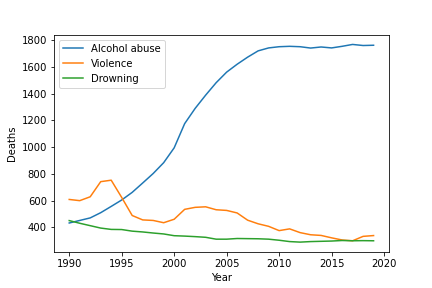
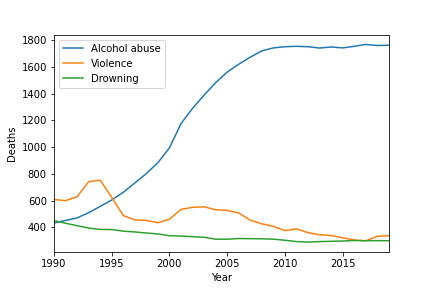
Some fixes and minor changes to functions. Reduced number of function parameters

diff --git a/code.py b/code.py
@@ -14,7 +14,7 @@ world = pd.read_csv("E:/Herts/ADS1/Assignment 1/ADS1_Assignment_Visualisation/ca
 
 #Creating seperate dataframes for each country from input data
 uk = world.iloc[5790:5820]
-uk["Total"] = uk.sum(axis=1)-uk["Year"]
+uk["Total"] = uk.sum(axis=1) - uk["Year"]
 germany = world.iloc[2010:2040]
 germany["Total"] = germany.sum(axis=1) - germany["Year"]
 france = world.iloc[1890:1920]
@@ -50,23 +50,43 @@ def line_plot_different_diseases_uk(y_axis, reason_1, reason_2, reason_3):
     plt.plot(uk[y_axis],uk[reason_2])
     plt.plot(uk[y_axis],uk[reason_3])
     plt.xlabel("Year")
+    plt.xlim(1990,2019)
     plt.ylabel("Deaths")
     plt.legend(["Alcohol abuse", "Violence", "Drowning"])
     plt.savefig("line2.png")
     plt.show()
 
-def box_plot(y_axis, x_axis):
+def box_plot(data):
     """
-        This function creates box plots for cardiovascular disease deaths with 
-        x and y axis given through arguments. Graphs are also saved as images 
-        to local directory
+        This function creates box plots for cardiovascular disease deaths for certain countries.
+        List of dataframes are given as argument.Graphs are also saved as images to local directory
     """
-    data = [uk[x_axis], germany[x_axis],france[x_axis],italy[x_axis]]
     plt.figure()
     plt.boxplot([data[0] , data[1] , data[2], data[3]], labels=["UK", "DE", "FR", "IT"])
     plt.ylabel("Deaths")
     plt.savefig("box.png")
     plt.show()
+
+def bar_chart(cause):
+    """
+        his function creates bar charts for a certain cuntries where cause of death 
+        is given as argument. Graph is also saved as images to local directory
+    """
+    plt.figure()
+    plt.hist(uk[cause], label = "UK", density=True, alpha=0.8)
+    plt.hist(germany[cause], label = "DE", density=True, alpha=0.8)
+    plt.hist(france[cause], label = "FR", density=True, alpha=0.8)
+    plt.hist(italy[cause], label = "IT", density=True, alpha=0.8)
+    plt.legend()
+    plt.xlabel("CVD per Total Deaths")
+    plt.xlabel("No. Of Deaths")
+    plt.savefig("bar.png")
+    plt.show()
+
+
+#creating a new array to pass to box plot function
+cause = "Cardiovascular Diseases"
+data = [uk[cause], germany[cause],france[cause],italy[cause]]
 
 #Creating new row Cardiovascular Diseases deaths per total deaths for each country
 uk["cvd per total deaths"] = uk["Cardiovascular Diseases"]/uk["Total"]
@@ -74,25 +94,8 @@ germany["cvd per total deaths"] = germany["Cardiovascular Diseases"]/germany["To
 france["cvd per total deaths"] = france["Cardiovascular Diseases"]/france["Total"]
 italy["cvd per total deaths"] = italy["Cardiovascular Diseases"]/italy["Total"]
 
-def bar_chart(y_axis, x_axis):
-    """
-        his function creates bar charts for cardiovascular disease deaths 
-        with x and y axis given through arguments. Graphs are also saved as 
-        images to local directory
-    """
-    plt.figure()
-    plt.hist(uk["cvd per total deaths"], label = "UK", density=True, alpha=0.8)
-    plt.hist(germany["cvd per total deaths"], label = "DE", density=True, alpha=0.8)
-    plt.hist(france["cvd per total deaths"], label = "FR", density=True, alpha=0.8)
-    plt.hist(italy["cvd per total deaths"], label = "IT", density=True, alpha=0.8)
-    plt.legend()
-    plt.xlabel("CVD per Total Deaths")
-    plt.xlabel("No. Of Deaths")
-    plt.savefig("bar.png")
-    plt.show()
-
 #Calling functions to create plots
 lineplot_different_countries("Year", "Cardiovascular Diseases")
 line_plot_different_diseases_uk("Year", "Alcohol Use Disorders", "Interpersonal Violence", "Drowning")
-box_plot("Year", "Cardiovascular Diseases")
-bar_chart("Year", "Cardiovascular Diseases")
+box_plot(data)
+bar_chart("cvd per total deaths")
